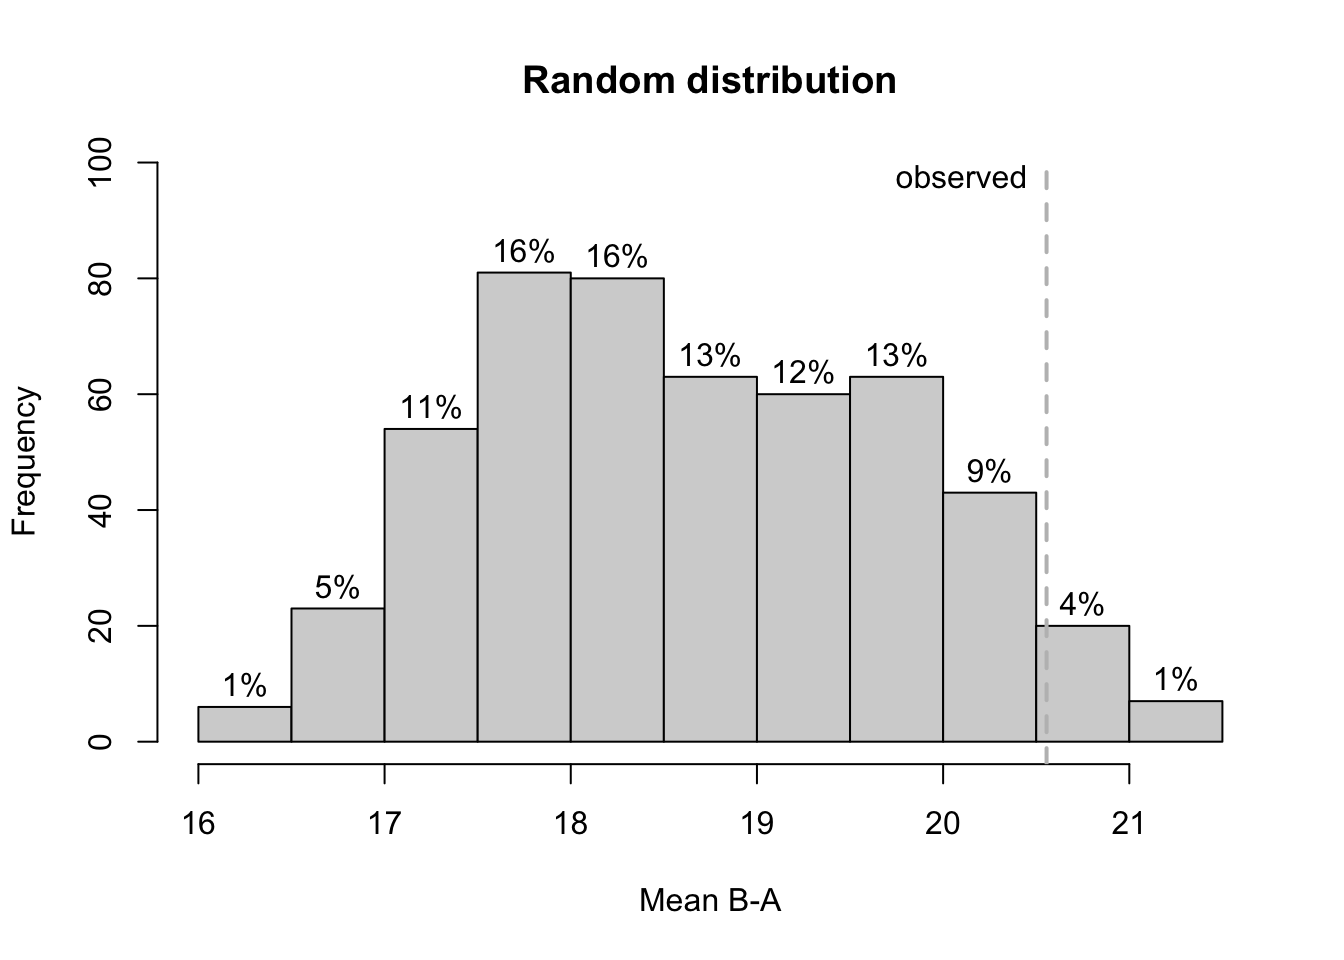
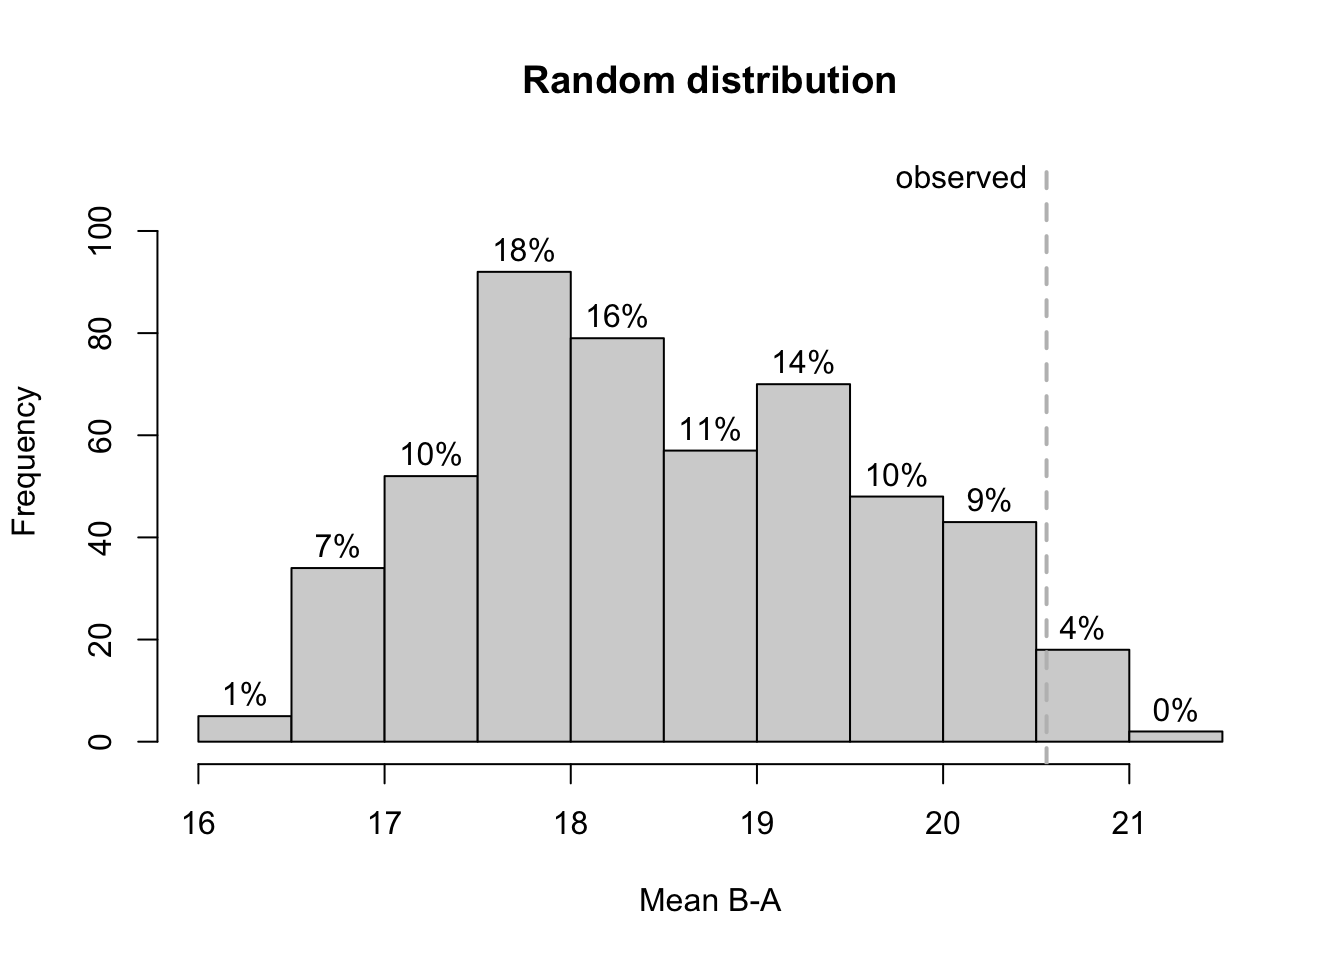
upd

diff --git a/docs/ch_powertest.html b/docs/ch_powertest.html
@@ -489,9 +489,9 @@ The design function call
 <pre><code>Test-Power in percent:
 
     Method Power Alpha Error Alpha:Beta Correct
- plm_level    72           1     1:28.0      86
-      rand    71           5      1:5.8      83
-      tauU   100          18      1:0.0      91</code></pre>
+ plm_level    73           5      1:5.4      84
+      rand    69          11      1:2.8      79
+      tauU   100          21      1:0.0      90</code></pre>
 </div>
 </div>
 <p>The results show that the plm test and the randomization test have similar power and alpha-error probabilities (the differences here may be due to outliers of the random samples. A more intensive computation with 1000 simulations shows slightly better values for the plm). The tau U test has an unacceptably high alpha-error which is due to the trend we put into the design. <em>Alpha:Beta</em> depicts the relation of the Alpha and Beta error (power = 1 - Beta). <em>Correct</em> is the overall proportion of correct categorizations and <em>p</em> is the results of a binomial-test of <em>Correct</em> against 50%.</p>
@@ -588,14 +588,14 @@ The design function call
 <div class="cell-output cell-output-stdout">
 <pre><code>Test-Power in percent:
 
-    Method Power 2.5% 97.5% Alpha Error 2.5% 97.5% Alpha:Beta Correct 2.5%
- plm_level    76   66    84           5    2    11      1:4.8      86   80
-      rand    68   58    77           4    1    10      1:8.0      82   76
-      tauU   100   96   100          28   19    38      1:0.0      86   80
+    Method Power 2.5% 97.5% Alpha Error  2.5% 97.5% Alpha:Beta Correct 2.5%
+ plm_level    74   64    82           1  0.03     5     1:26.0      86   81
+      rand    70   60    79           7  2.86    14      1:4.3      82   75
+      tauU   100   96   100          17 10.23    26      1:0.0      92   87
  97.5%
-    90
+    91
     87
-    90</code></pre>
+    95</code></pre>
 </div>
 </div>
 <p>You can also test the power, alpha error, and correct estimates against predefined values. In order to do that, set <code>binom_test = TRUE</code>. The power will be tested against being greater or equal to 80%, the alpha error against being less or equal 5%, and the correct proportion against being greater equal 87.5%.</p>
@@ -606,12 +606,12 @@ The design function call
 
     Method Power Alpha Error Alpha:Beta Correct p Power&gt;=80 p Alpha Error&lt;=5
  plm_level    75           4      1:6.2      86           1                0
-      rand    72           8      1:3.5      82           1                1
-      tauU   100          30      1:0.0      85           0                1
+      rand    72           3      1:9.3      84           1                0
+      tauU   100          22      1:0.0      89           0                1
  p Correct&gt;=87.5
              0.8
-             1.0
-             0.9</code></pre>
+             0.9
+             0.3</code></pre>
 </div>
 </div>
 <p>If you want to define individual values for the three tests, set the <code>binom_test_power</code>. <code>binom_test_alpha</code>, and/or, the <code>binom_test_correct</code> arguments.</p>
@@ -670,9 +670,9 @@ The design function call
 <pre><code>Test-Power in percent:
 
     Method Power Alpha Error Alpha:Beta Correct
- plm_level    72           1     1:28.0      86
-      rand    71           5      1:5.8      83
-      tauU   100          18      1:0.0      91
+ plm_level    73           5      1:5.4      84
+      rand    69          11      1:2.8      79
+      tauU   100          21      1:0.0      90
 
 Computation duration is 0.9 seconds.</code></pre>
 </div>
@@ -686,13 +686,13 @@ Computation duration is 0.9 seconds.</code></pre>
 <span id="cb14-5"><a href="#cb14-5" aria-hidden="true" tabindex="-1"></a><span class="co"># Elapsed time in seconds for each procedure</span></span>
 <span id="cb14-6"><a href="#cb14-6" aria-hidden="true" tabindex="-1"></a><span class="fu">attr</span>(res1, <span class="st">"computation_duration"</span>)[<span class="dv">3</span>]</span>
 <span id="cb14-7"><a href="#cb14-7" aria-hidden="true" tabindex="-1"></a><span class="do">## elapsed </span></span>
-<span id="cb14-8"><a href="#cb14-8" aria-hidden="true" tabindex="-1"></a><span class="do">##   0.075</span></span>
+<span id="cb14-8"><a href="#cb14-8" aria-hidden="true" tabindex="-1"></a><span class="do">##   0.072</span></span>
 <span id="cb14-9"><a href="#cb14-9" aria-hidden="true" tabindex="-1"></a><span class="fu">attr</span>(res2, <span class="st">"computation_duration"</span>)[<span class="dv">3</span>]</span>
 <span id="cb14-10"><a href="#cb14-10" aria-hidden="true" tabindex="-1"></a><span class="do">## elapsed </span></span>
-<span id="cb14-11"><a href="#cb14-11" aria-hidden="true" tabindex="-1"></a><span class="do">##   0.233</span></span>
+<span id="cb14-11"><a href="#cb14-11" aria-hidden="true" tabindex="-1"></a><span class="do">##   0.229</span></span>
 <span id="cb14-12"><a href="#cb14-12" aria-hidden="true" tabindex="-1"></a><span class="fu">attr</span>(res3, <span class="st">"computation_duration"</span>)[<span class="dv">3</span>]</span>
 <span id="cb14-13"><a href="#cb14-13" aria-hidden="true" tabindex="-1"></a><span class="do">## elapsed </span></span>
-<span id="cb14-14"><a href="#cb14-14" aria-hidden="true" tabindex="-1"></a><span class="do">##   0.481</span></span></code><button title="Copy to Clipboard" class="code-copy-button"><i class="bi"></i></button></pre></div>
+<span id="cb14-14"><a href="#cb14-14" aria-hidden="true" tabindex="-1"></a><span class="do">##   0.477</span></span></code><button title="Copy to Clipboard" class="code-copy-button"><i class="bi"></i></button></pre></div>
 </div>
 <p>… and what about our new fast-glm function?</p>
 <div class="cell">
@@ -711,12 +711,12 @@ Computation duration is 0.9 seconds.</code></pre>
 <span id="cb15-13"><a href="#cb15-13" aria-hidden="true" tabindex="-1"></a><span class="fu">attr</span>(res1, <span class="st">"computation_duration"</span>)[<span class="dv">3</span>]</span></code><button title="Copy to Clipboard" class="code-copy-button"><i class="bi"></i></button></pre></div>
 <div class="cell-output cell-output-stdout">
 <pre><code>elapsed 
-  0.212 </code></pre>
+  0.198 </code></pre>
 </div>
 <div class="sourceCode cell-code" id="cb17"><pre class="sourceCode r code-with-copy"><code class="sourceCode r"><span id="cb17-1"><a href="#cb17-1" aria-hidden="true" tabindex="-1"></a><span class="fu">attr</span>(res2, <span class="st">"computation_duration"</span>)[<span class="dv">3</span>]</span></code><button title="Copy to Clipboard" class="code-copy-button"><i class="bi"></i></button></pre></div>
 <div class="cell-output cell-output-stdout">
 <pre><code>elapsed 
-  0.137 </code></pre>
+  0.146 </code></pre>
 </div>
 </div>
 <p>… it is much faster!</p>

diff --git a/docs/index.html b/docs/index.html
@@ -342,7 +342,7 @@ div.csl-indent {
 
 </header>
 
-<p><strong><em>Version 23.06 (build 6)</em></strong></p>
+<p><strong><em>Version 23.06 (build 7)</em></strong></p>
 <section id="preface" class="level1 unnumbered">
 <h1 class="unnumbered">Preface</h1>
 <p>Hello everyone!</p>
@@ -350,10 +350,10 @@ div.csl-indent {
 If you have any suggestions on how to improve the book, or want to report bugs, comments, feedback, etc., go to the gitHub repository of this book and contribute here <a href="https://github.com/jazznbass/scan-Book/discussions" class="uri">https://github.com/jazznbass/scan-Book/discussions</a>.</p>
 <p>Thank you very much!</p>
 <p>Jürgen</p>
-<p>22 May 2023</p>
+<p>23 May 2023</p>
 <section id="general-references" class="level2 unnumbered">
 <h2 class="unnumbered anchored" data-anchor-id="general-references">General references</h2>
-<p>This book has been created using <a href="https://quarto.org/"><code>Quarto</code></a> within the RStudio <span class="citation" data-cites="RStudio">(<a href="references.html#ref-RStudio" role="doc-biblioref">RStudio Team, 2018</a>)</span> environment. The analyses have been conducted with the <strong>R</strong> package <code>scan</code> at version 0.57.9 <span class="citation" data-cites="R-scan">(<a href="references.html#ref-R-scan" role="doc-biblioref">Wilbert &amp; Lueke, 2023</a>)</span> and <code>scplot</code> at version 0.3.1 <span class="citation" data-cites="R-scplot">(<a href="references.html#ref-R-scplot" role="doc-biblioref">Wilbert, 2023</a>)</span>. R version 4.3.0 (2023-04-21) was used <span class="citation" data-cites="R-base">(<a href="references.html#ref-R-base" role="doc-biblioref">R Core Team, 2023</a>)</span>.</p>
+<p>This book has been created using <a href="https://quarto.org/"><code>Quarto</code></a> within the RStudio <span class="citation" data-cites="RStudio">(<a href="references.html#ref-RStudio" role="doc-biblioref">RStudio Team, 2018</a>)</span> environment. The analyses have been conducted with the <strong>R</strong> package <code>scan</code> at version 0.57.10 <span class="citation" data-cites="R-scan">(<a href="references.html#ref-R-scan" role="doc-biblioref">Wilbert &amp; Lueke, 2023</a>)</span> and <code>scplot</code> at version 0.3.1 <span class="citation" data-cites="R-scplot">(<a href="references.html#ref-R-scplot" role="doc-biblioref">Wilbert, 2023</a>)</span>. R version 4.3.0 (2023-04-21) was used <span class="citation" data-cites="R-base">(<a href="references.html#ref-R-base" role="doc-biblioref">R Core Team, 2023</a>)</span>.</p>
 <p>Note: The cover has been designed by Tony Wilbert and Henry Ritter.<br>
 Thanx for that!</p>
 

diff --git a/docs/ch_piecewise_regression.html b/docs/ch_piecewise_regression.html
@@ -472,6 +472,7 @@ Autocorrelations of the residuals
    1 -0.32
    2 -0.13
    3 -0.01
+Ljung-Box test: X-Squared(3) = 2.84; p = 0.417 
 
 Formula: values ~ 1 + mt + phaseB + interB</code></pre>
 </div>
@@ -526,6 +527,7 @@ Autocorrelations of the residuals
    1 -0.28
    2  0.05
    3 -0.11
+Ljung-Box test: X-Squared(3) = 2.14; p = 0.543 
 
 Formula: values ~ 1 + mt + phaseB + interB</code></pre>
 </div>
@@ -551,6 +553,7 @@ Autocorrelations of the residuals
    1 -0.07
    2  0.06
    3 -0.17
+Ljung-Box test: X-Squared(3) = 0.99; p = 0.804 
 
 Formula: values ~ 1 + mt + phaseB</code></pre>
 </div>
@@ -585,6 +588,7 @@ Autocorrelations of the residuals
    1  0.20
    2 -0.19
    3 -0.16
+Ljung-Box test: X-Squared(3) = 4.33; p = 0.228 
 
 Formula: wellbeing ~ day + phaseMedication + interMedication + cigarrets</code></pre>
 </div>
@@ -1214,7 +1218,7 @@ slope
 
 </div>
 </div>
-<p>Now we estimate a plm model with four contrast settings:</p>
+<p>Now we estimate a plm model with four contrast settings (see <a href="#tbl-contrast-first-preceding">Table&nbsp;<span>9.2</span></a>):</p>
 <div class="cell">
 <div class="cell-output-display">
 <div id="tbl-contrast-first-preceding" class="anchored">
@@ -1390,7 +1394,8 @@ slopeC = slope_{phaseC} - slope_{phaseA}
 \tag{9.10}\]</span></span></p>
 <p><span class="math display">\[
 1.721 \approx -0.194 - (-1.915)
-\]</span> <!--# same analyses for models without level estimators and models without slope estimators --></p>
+\]</span></p>
+<!--# same analyses for models without level estimators and models without slope estimators -->
 
 
 <div id="refs" class="references csl-bib-body hanging-indent" data-line-spacing="2" role="list" style="display: none">

diff --git a/docs/ch_randomization_test.html b/docs/ch_randomization_test.html
@@ -442,18 +442,18 @@ Observed statistic =  20.55556
 
 Distribution based on a random sample of all 1331 possible combinations.
 n   =  500 
-M   =  18.65146 
-SD  =  1.131551 
-Min =  16.06667 
+M   =  18.53083 
+SD  =  1.114997 
+Min =  16.08836 
 Max =  21.34493 
 
 Probability of observed statistic based on distribution:
-p   =  0.046 
+p   =  0.03 
 
-Shapiro-Wilk Normality Test: W = 0.980; p = 0.000  (Hypothesis of normality rejected)
+Shapiro-Wilk Normality Test: W = 0.977; p = 0.000  (Hypothesis of normality rejected)
 
 Probabilty of observed statistic based on the assumption of normality:
-z = 1.6827, p = 0.0462 (single sided)</code></pre>
+z = 1.8159, p = 0.0347 (single sided)</code></pre>
 </div>
 </div>
 

diff --git a/docs/ch_scan_package.html b/docs/ch_scan_package.html
@@ -336,7 +336,7 @@ ul.task-list li input[type="checkbox"] {
 <p>To activate a package, you need the <code>library</code> function. In this case, <code>library(scan)</code>. You should get something like</p>
 <div class="cell">
 <div class="cell-output cell-output-stdout">
-<pre><code>[34mscan 0.57.9 (2023-05-21)
+<pre><code>[34mscan 0.57.10 (2023-05-23)
 [31mFor information on citing scan, type citation("scan").</code></pre>
 </div>
 </div>
